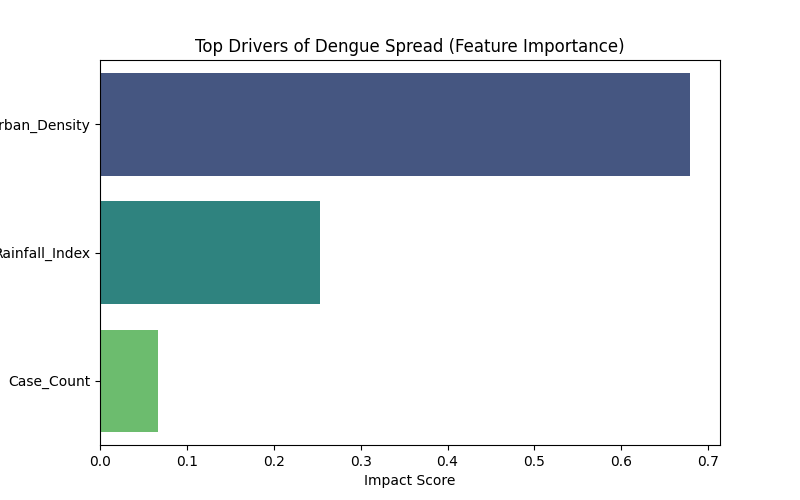
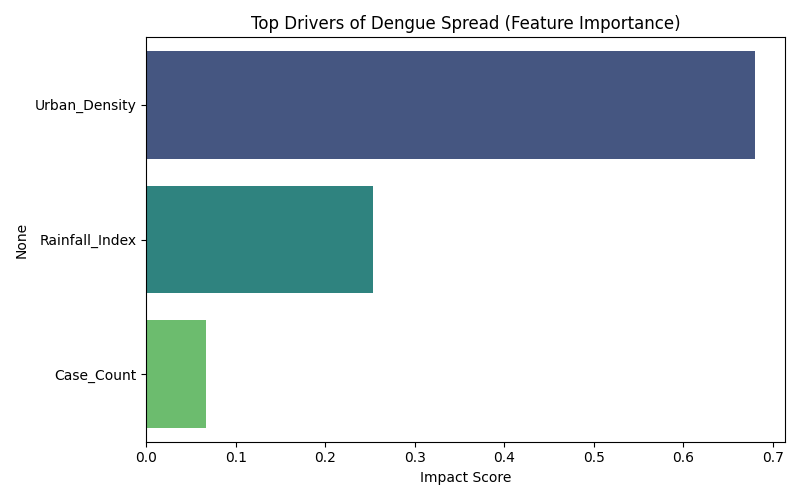
updating and debugging

Changed region(s): [[0.0, 0.03, 0.9688, 0.99], [0.9375, 0.9, 0.9688, 0.93]]

diff --git a/backend/model_training/evaluate_model.py b/backend/model_training/evaluate_model.py
@@ -145,6 +145,7 @@ if model_14d:
     sns.barplot(x=feature_imp.values, y=feature_imp.index, palette='viridis')
     plt.title('Top Drivers of Dengue Spread (Feature Importance)')
     plt.xlabel('Impact Score')
+    plt.tight_layout()
     plt.savefig(os.path.join(METRICS_DIR, 'feature_importance.png'))
     plt.close()
     print("✅ Feature Importance Plot Saved")
